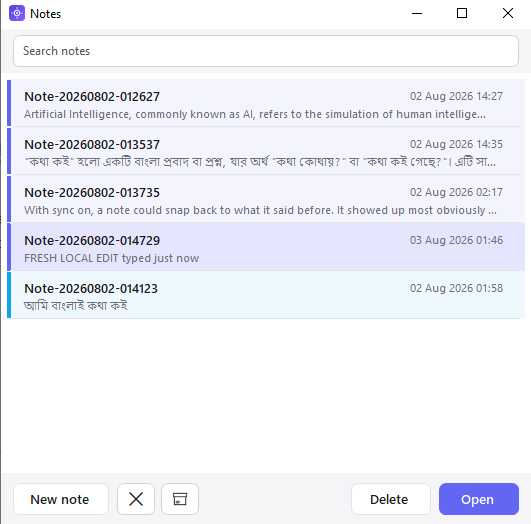
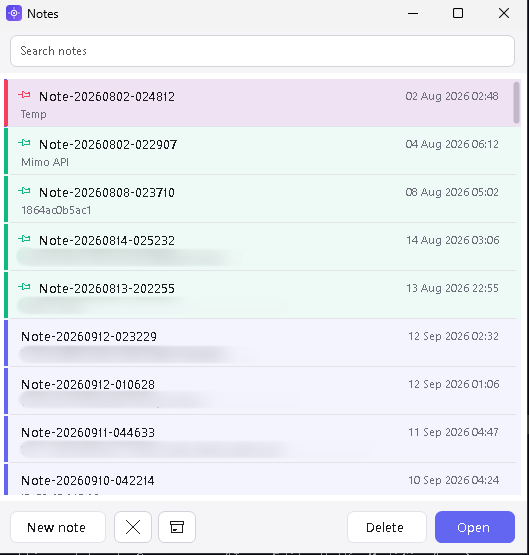
Refresh the screenshots, and show the real image editor
Eleven screenshots from a current build: the notes list, archive, OCR result
and setting, the Bangla note and the capture frame replace their older
equivalents, and the image editor, Note Setting, Pick Text, the recording
toolbar and the Shortcuts window are new.

The website's image-editor section drops the hand-drawn diagram for the real
window, full width, with the capability list beneath it, and the tray section
gains the Shortcuts window. The README gains the editor, Pick Text, the
recording toolbar, Note Setting and Shortcuts.

Claude-Session: https://claude.ai/code/session_01BaJaUn1mXmKCezMjxbCsXE

diff --git a/docs/index.html b/docs/index.html
@@ -185,8 +185,10 @@
   }
   .band > .wrap > p:first-of-type { margin-top: 0; }
 
-  .editor-grid { display: grid; gap: 34px; grid-template-columns: 1.15fr 1fr; align-items: start; margin-top: 34px; }
-  @media (max-width: 860px) { .editor-grid { grid-template-columns: 1fr; } }
+  .editor-grid { margin-top: 30px; }
+  .edit-list { grid-template-columns: repeat(auto-fit, minmax(330px, 1fr)); column-gap: 40px; }
+  .editor-shot { margin: 30px 0 0; }
+  .editor-shot img { width: 100%; border: 1px solid var(--rule); border-radius: 10px; box-shadow: var(--shadow); }
   .diagram { border: 1px solid var(--rule); border-radius: 10px; background: var(--paper); padding: 14px; }
   .diagram svg { width: 100%; height: auto; display: block; }
   .diagram p { font-size: 13px; color: var(--ink-2); margin: 12px 4px 2px; }
@@ -212,6 +214,8 @@
   }
   .tray-note { display: flex; gap: 26px; align-items: center; flex-wrap: wrap; margin-bottom: 8px; }
   .tray-note img { width: 210px; }
+  .tray-note img[src="shortcuts.png"] { width: 250px; }
+  .tray-note p { flex: 1 1 300px; }
   .tray-note p { margin: 0; }
 
   /* ---------- download ---------- */
@@ -296,6 +300,10 @@
       leaving the tray.
     </p>
 
+    <figure class="editor-shot">
+      <img src="editor.png" alt="The MicroApp image editor: tool rail on the left, a photo on the canvas with a selection being transformed, and the layers panel on the right." width="1347" height="833" loading="lazy">
+    </figure>
+
     <div class="editor-grid">
       <ul class="edit-list">
         <li><span class="combo"><kbd class="cap">M</kbd></span>
@@ -310,77 +318,7 @@
           <b>Layers with blend modes and styles.<span>Lift a selection onto its own layer, then give it a drop shadow, glow, stroke or colour overlay. Fifty steps of history, and an asset library for the logos you stamp on everything.</span></b></li>
       </ul>
 
-      <figure class="diagram">
-        <svg viewBox="0 0 420 300" role="img" aria-label="Diagram of the image editor window: tool rail on the left, options bar across the top, canvas in the middle with a selection, layers and history panel on the right.">
-          <rect x="1" y="1" width="418" height="298" rx="9" fill="var(--cap)" stroke="var(--edge)"/>
-          <!-- menu + options -->
-          <rect x="1" y="1" width="418" height="20" rx="9" fill="var(--indigo-soft)"/>
-          <rect x="1" y="12" width="418" height="9" fill="var(--indigo-soft)"/>
-          <g fill="var(--ink-2)" opacity=".75">
-            <rect x="12" y="8" width="16" height="5" rx="2"/><rect x="34" y="8" width="16" height="5" rx="2"/>
-            <rect x="56" y="8" width="20" height="5" rx="2"/><rect x="82" y="8" width="18" height="5" rx="2"/>
-          </g>
-          <rect x="1" y="21" width="418" height="22" fill="var(--paper)"/>
-          <g fill="var(--ink-2)" opacity=".5">
-            <rect x="12" y="28" width="26" height="8" rx="3"/>
-            <rect x="48" y="28" width="40" height="8" rx="3"/><rect x="94" y="28" width="34" height="8" rx="3"/>
-            <rect x="134" y="28" width="40" height="8" rx="3"/>
-          </g>
-          <!-- tool rail -->
-          <rect x="1" y="43" width="42" height="256" fill="var(--paper)"/>
-          <g>
-            <rect x="7" y="49" width="14" height="14" rx="4" fill="var(--indigo)"/>
-            <rect x="23" y="49" width="14" height="14" rx="4" fill="var(--ink-2)" opacity=".28"/>
-            <rect x="7" y="67" width="14" height="14" rx="4" fill="var(--ink-2)" opacity=".28"/>
-            <rect x="23" y="67" width="14" height="14" rx="4" fill="var(--ink-2)" opacity=".28"/>
-            <rect x="7" y="85" width="14" height="14" rx="4" fill="var(--ink-2)" opacity=".28"/>
-            <rect x="23" y="85" width="14" height="14" rx="4" fill="var(--ink-2)" opacity=".28"/>
-            <rect x="7" y="103" width="14" height="14" rx="4" fill="var(--ink-2)" opacity=".28"/>
-            <rect x="23" y="103" width="14" height="14" rx="4" fill="var(--ink-2)" opacity=".28"/>
-            <rect x="7" y="121" width="14" height="14" rx="4" fill="var(--ink-2)" opacity=".28"/>
-            <rect x="23" y="121" width="14" height="14" rx="4" fill="var(--ink-2)" opacity=".28"/>
-            <rect x="9" y="150" width="17" height="17" rx="3" fill="var(--ink)"/>
-            <rect x="18" y="159" width="17" height="17" rx="3" fill="var(--cap)" stroke="var(--edge)"/>
-          </g>
-          <!-- canvas -->
-          <rect x="43" y="43" width="267" height="256" fill="var(--paper)"/>
-          <rect x="63" y="60" width="227" height="222" fill="var(--cap)" stroke="var(--edge)"/>
-          <g opacity=".5">
-            <rect x="64" y="61" width="225" height="132" fill="var(--indigo)" opacity=".13"/>
-            <rect x="64" y="193" width="225" height="88" fill="var(--ink-2)" opacity=".16"/>
-            <circle cx="240" cy="96" r="17" fill="var(--indigo)" opacity=".22"/>
-            <path d="M64 193 L118 146 L163 178 L205 150 L289 193 Z" fill="var(--ink-2)" opacity=".22"/>
-          </g>
-          <rect x="96" y="92" width="120" height="96" fill="var(--indigo)" opacity=".10"/>
-          <rect x="96" y="92" width="120" height="96" fill="none" stroke="var(--indigo)" stroke-dasharray="5 4"/>
-          <g fill="var(--cap)" stroke="var(--indigo)">
-            <rect x="92" y="88" width="8" height="8"/><rect x="152" y="88" width="8" height="8"/><rect x="212" y="88" width="8" height="8"/>
-            <rect x="92" y="136" width="8" height="8"/><rect x="212" y="136" width="8" height="8"/>
-            <rect x="92" y="184" width="8" height="8"/><rect x="152" y="184" width="8" height="8"/><rect x="212" y="184" width="8" height="8"/>
-          </g>
-          <!-- right panels -->
-          <rect x="310" y="43" width="109" height="256" fill="var(--paper)"/>
-          <line x1="310" y1="43" x2="310" y2="299" stroke="var(--edge)"/>
-          <g fill="var(--ink-2)" opacity=".55">
-            <rect x="320" y="52" width="34" height="6" rx="3" fill="var(--indigo)" opacity="1"/>
-            <rect x="362" y="52" width="38" height="6" rx="3"/>
-          </g>
-          <rect x="318" y="70" width="92" height="24" rx="4" fill="var(--cap)" stroke="var(--edge)"/>
-          <rect x="322" y="74" width="16" height="16" rx="2" fill="var(--indigo)" opacity=".35"/>
-          <rect x="344" y="78" width="46" height="5" rx="2" fill="var(--ink-2)" opacity=".6"/>
-          <rect x="344" y="86" width="28" height="4" rx="2" fill="var(--ink-2)" opacity=".35"/>
-          <rect x="318" y="98" width="92" height="24" rx="4" fill="var(--cap)" stroke="var(--edge)"/>
-          <rect x="322" y="102" width="16" height="16" rx="2" fill="var(--ink-2)" opacity=".2"/>
-          <rect x="344" y="106" width="38" height="5" rx="2" fill="var(--ink-2)" opacity=".6"/>
-          <rect x="344" y="114" width="24" height="4" rx="2" fill="var(--ink-2)" opacity=".35"/>
-          <g fill="var(--ink-2)" opacity=".4">
-            <rect x="320" y="264" width="12" height="12" rx="3"/><rect x="338" y="264" width="12" height="12" rx="3"/>
-            <rect x="356" y="264" width="12" height="12" rx="3"/><rect x="374" y="264" width="12" height="12" rx="3"/>
-            <rect x="392" y="264" width="12" height="12" rx="3"/>
-          </g>
-        </svg>
-        <p>The window at a glance: tools, the options for the tool in your hand, the canvas, and layers with history. A diagram, not a screenshot.</p>
-      </figure>
+
     </div>
   </div>
 </section>
@@ -389,8 +327,10 @@
   <h2>The rest of the tray menu</h2>
   <div class="tray-note">
     <img class="shot" src="tray-menu.png" alt="The MicroApp tray menu, listing every feature with its hot key." width="340" height="320" loading="lazy">
-    <p>Every feature has a hot key you can change, and the menu lists them all. Nothing runs in the background except the tray
-      icon itself; there is no account, no telemetry and no server.</p>
+    <p>Every feature has a hot key you can change, and one window holds the lot — change a key there and the feature's own
+      settings window agrees. Nothing runs in the background except the tray icon itself; there is no account, no telemetry
+      and no server.</p>
+    <img class="shot" src="shortcuts.png" alt="The Shortcuts window, with every hot key and the typed date formats." width="600" height="765" loading="lazy">
   </div>
 
   <div class="feat">
@@ -411,7 +351,7 @@
         upload. <span class="combo"><kbd class="cap">Ctrl</kbd><i>+</i><kbd class="cap">Alt</kbd><i>+</i><kbd class="cap">T</kbd></span>
         does it without OCR: it picks the exact text out of any control, like a colour picker for words.</p>
     </div>
-    <figure><img src="ocr-result.png" alt="The OCR result window showing text grabbed from the screen." width="616" height="491" loading="lazy"></figure>
+    <figure><img src="ocr-result.png" alt="The OCR result window showing text grabbed from the screen." width="605" height="487" loading="lazy"></figure>
   </div>
 
   <div class="feat">
@@ -421,7 +361,7 @@
       <p>The screen freezes, you drag a frame, and the handles let you fix it before you take it. Lock the ratio or the exact
         pixel size when you need every capture to match.</p>
     </div>
-    <figure><img src="capture-overlay.png" alt="The capture overlay with an adjustable frame over the screen." width="666" height="506" loading="lazy"></figure>
+    <figure><img src="capture-overlay.png" alt="The capture frame with its size read-out and the buttons that take or cancel the shot." width="289" height="212" loading="lazy"></figure>
   </div>
 
   <div class="feat">
@@ -443,7 +383,7 @@
         phonetic typing — write <em>ami</em>, get আমি. Optionally the same notes on every PC, mirrored through a free database
         you own.</p>
     </div>
-    <figure><img src="note-bangla.png" alt="A MicroApp note with Bangla phonetic typing." width="570" height="445" loading="lazy"></figure>
+    <figure><img src="note-bangla.png" alt="A MicroApp note with Bangla phonetic typing and the AI toolbar." width="562" height="430" loading="lazy"></figure>
   </div>
 </section>
 

diff --git a/README.md b/README.md
@@ -81,6 +81,8 @@ pointer; one click grabs the exact text of the control under it through UI Autom
 character-perfect, however many lines. The click never reaches the app underneath, and password
 fields are never read. Use OCR instead for images, videos and remote desktops.
 
+![Pick Text](docs/pick-text.png)
+
 ### 4. Screen capture
 
 Press **Ctrl+Alt+S** (or tray → *Screen Capture*) and drag. The screen freezes and dims so the selection
@@ -108,6 +110,10 @@ shows elapsed time, placed outside the recorded area so it stays out of the fram
 the hot key again, or by clicking the badge.
 
 ![Recording demo](docs/demo-recording.gif)
+
+The toolbar stays outside the recorded area, so it never lands in the frames:
+
+![Recording a region](docs/recording.png)
 
 Frames stream straight to disk while recording, so a long capture costs no more memory than a short one.
 GIF recording has its own hot key, frame rate, length limit, selection lock and output folder — separate
@@ -194,6 +200,8 @@ Press **Ctrl+Alt+E** (or tray → *Image Editor*) and paste any image — the wi
 is on the clipboard. It is laid out like Photoshop, and it answers to Photoshop's keys, menus and
 right-click menus (**Help → Keyboard Shortcuts** lists them all).
 
+![The image editor](docs/editor.png)
+
 - **Layers.** Every paste, mark, text box and asset is its own layer, with blend modes, opacity,
   a lock, drag-to-reorder, merge down / merge visible / flatten, and **Layer Styles** — drop
   shadow, outer glow, stroke, colour overlay. A **History** panel jumps back fifty steps.
@@ -236,7 +244,8 @@ Six focused windows, all reachable from the tray menu:
 | | |
 |---|---|
 | ![OCR Setting](docs/ocr-setting.png) | ![Capture Setting](docs/capture-setting.png) |
-| ![GIF Setting](docs/gif-setting.png) | ![About](docs/about.png) |
+| ![GIF Setting](docs/gif-setting.png) | ![Note Setting](docs/note-setting.png) |
+| ![About](docs/about.png) | |
 
 The full reference — every default, and the troubleshooting list — is in **[HELP.md](HELP.md)**;
 installing and first-run setup are in **[SETUP.md](SETUP.md)**.
@@ -259,6 +268,8 @@ installing and first-run setup are in **[SETUP.md](SETUP.md)**.
 | Type the long date | `Ctrl + Shift + M` |
 | Bangla / English in a note | `Ctrl + Shift + L` |
 | Cancel anything in progress | `Esc` |
+
+![Shortcuts](docs/shortcuts.png)
 
 Hot keys act the moment the combination is pressed — the crosshair appears while the keys are still held.
 
